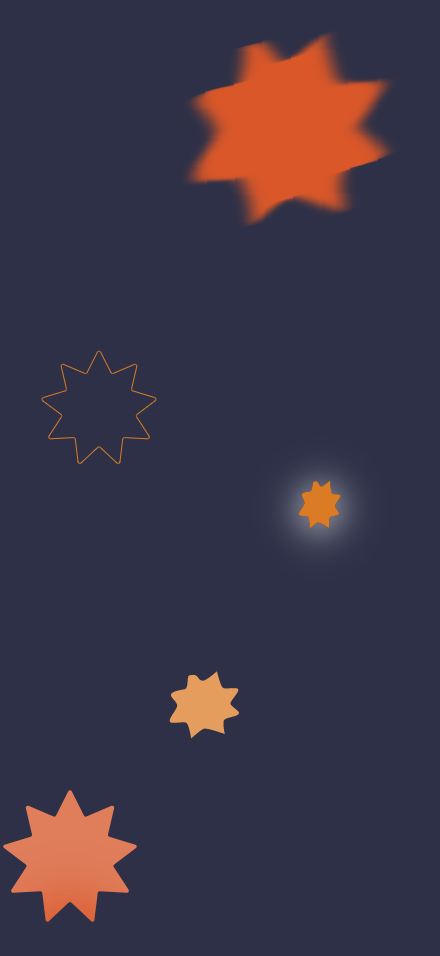
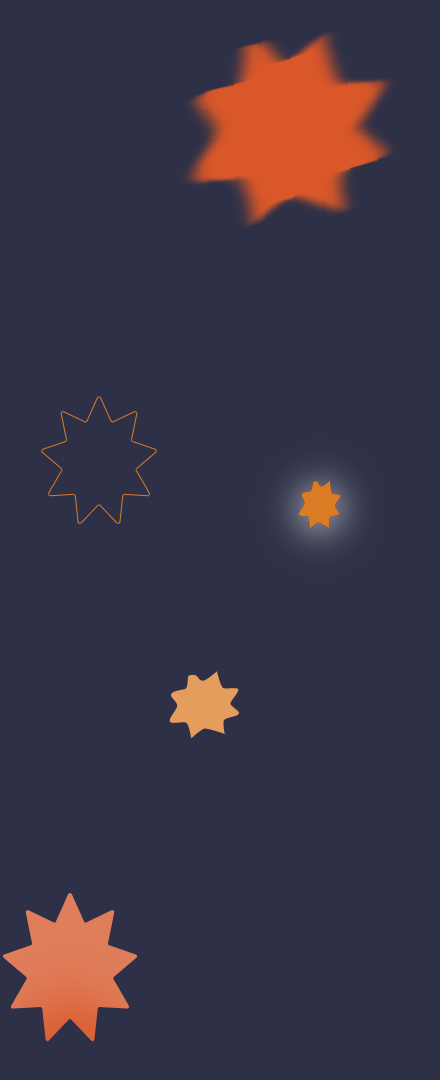
fix background on mobile

Changed region(s): [[0.4136, 0.0303, 0.8864, 0.2427], [0.65, 0.4247, 0.8273, 0.5764], [0.3841, 0.6067, 0.5614, 0.7887]]

diff --git a/app/globals.css b/app/globals.css
@@ -1,7 +1,7 @@
 @import "tailwindcss";
 
 :root {
-  --background: #9dfaed;
+  --background: #2d3047;
 }
 
 @theme inline {
@@ -9,7 +9,7 @@
 
 @media (prefers-color-scheme: dark) {
   :root {
-    --background: #9dfaed;
+    --background: #2d3047;
     --foreground: #ffffff;
   }
 }
